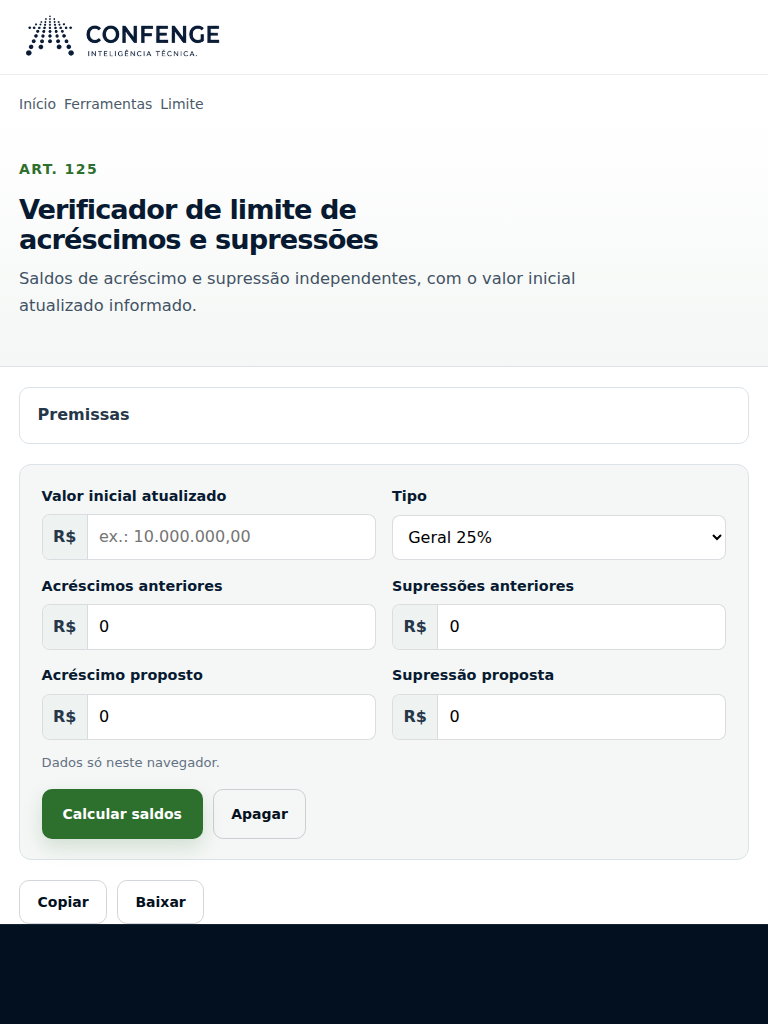
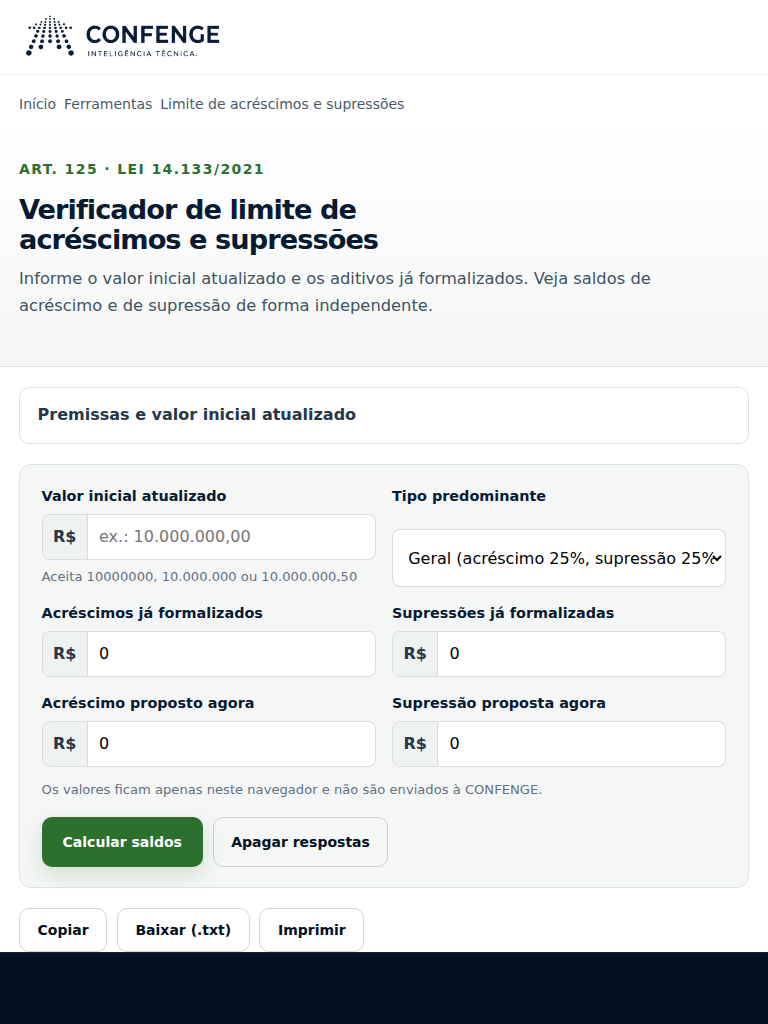
docs(uiux): refresh acceptance deliverables and post-regen pilot evidence
Update CHANGED-FILES, TEST-RESULTS, copy-lint report, and E2E/axe evidence
after full main audit (em-dash zero, interaction_type rebuild, skeptic E2E).

diff --git a/docs/uiux-tools-remediation/CHANGED-FILES.md b/docs/uiux-tools-remediation/CHANGED-FILES.md
@@ -1,0 +1,145 @@
+# Arquivos alterados (remediação UI/UX tools + editorial)
+
+Total: 141 paths (49d61778..HEAD / includes #46+#48)
+
+- `.well-known/build-info.json`
+- `.well-known/release-result.json`
+- `assets/js/tool-compute.cjs`
+- `assets/js/tool-compute.js`
+- `assets/js/tool-persist.cjs`
+- `assets/js/tool-persist.js`
+- `assets/js/tools-common.js`
+- `data/editorial/EDITORIAL-REGISTRY.json`
+- `data/editorial/pages/guia-checklist-aditivo.json`
+- `data/editorial/pages/guia-docs-reequilibrio.json`
+- `data/editorial/pages/guia-glosa.json`
+- `data/editorial/pages/guia-notificacao-atraso.json`
+- `data/editorial/pages/jur-sumula-260-art.json`
+- `data/editorial/pages/lei-art124-alteracao-obra.json`
+- `data/editorial/pages/lei-atraso-administracao.json`
+- `data/editorial/pages/lei-item-novo-desconto.json`
+- `data/editorial/pages/lei-limite-25-50.json`
+- `data/editorial/pages/lei-parcela-incontroversa.json`
+- `data/editorial/pages/lei-reequilibrio-reajuste.json`
+- `data/editorial/pages/lei-servico-sem-aditivo.json`
+- `data/pseo/registry.json`
+- `data/site/brand.json`
+- `docs/editorial/COPY-LINT-REPORT.json`
+- `docs/editorial/EDITORIAL-INVENTORY.json`
+- `docs/editorial/EDITORIAL-REGISTRY.json`
+- `docs/editorial/HUMAN-ACTION-NOW.md`
+- `docs/editorial/RELEASE-APPROVED-LAST.json`
+- `docs/editorial/TERMINAL-RESULT.json`
+- `docs/editorial/WAVE1-HUMAN-REVIEW-PACKET.json`
+- `docs/ops/REQUIRED-BRANCH-CHECKS.md`
+- `docs/ops/RESTORE-GREEN-MAIN-REPORT.md`
+- `docs/uiux-tools-remediation/AI-COPY-REWRITES.md`
+- `docs/uiux-tools-remediation/COMPONENT-MATRIX.md`
+- `docs/uiux-tools-remediation/FINDINGS.md`
+- `docs/uiux-tools-remediation/LIMITS-AND-FUTURE.md`
+- `docs/uiux-tools-remediation/README.md`
+- `docs/uiux-tools-remediation/TEST-RESULTS.md`
+- `docs/uiux-tools-remediation/evidence/axe-report.json`
+- `docs/uiux-tools-remediation/evidence/e2e-report-skeptic-round.json`
+- `docs/uiux-tools-remediation/evidence/e2e-report.json`
+- `docs/uiux-tools-remediation/evidence/e2e-summary.txt`
+- `docs/uiux-tools-remediation/evidence/screenshots/after/aditivo-1024x768.png`
+- `docs/uiux-tools-remediation/evidence/screenshots/after/aditivo-1440x1000.png`
+- `docs/uiux-tools-remediation/evidence/screenshots/after/aditivo-320x568.png`
+- `docs/uiux-tools-remediation/evidence/screenshots/after/aditivo-360x800.png`
+- `docs/uiux-tools-remediation/evidence/screenshots/after/aditivo-390x844.png`
+- `docs/uiux-tools-remediation/evidence/screenshots/after/aditivo-768x1024.png`
+- `docs/uiux-tools-remediation/evidence/screenshots/after/aditivo-partial-1440.png`
+- `docs/uiux-tools-remediation/evidence/screenshots/after/hub-1024x768.png`
+- `docs/uiux-tools-remediation/evidence/screenshots/after/hub-1440x1000.png`
+- `docs/uiux-tools-remediation/evidence/screenshots/after/hub-320x568.png`
+- `docs/uiux-tools-remediation/evidence/screenshots/after/hub-360x800.png`
+- `docs/uiux-tools-remediation/evidence/screenshots/after/hub-390x844.png`
+- `docs/uiux-tools-remediation/evidence/screenshots/after/hub-768x1024.png`
+- `docs/uiux-tools-remediation/evidence/screenshots/after/limite-1024x768.png`
+- `docs/uiux-tools-remediation/evidence/screenshots/after/limite-1440x1000.png`
+- `docs/uiux-tools-remediation/evidence/screenshots/after/limite-320x568.png`
+- `docs/uiux-tools-remediation/evidence/screenshots/after/limite-360x800.png`
+- `docs/uiux-tools-remediation/evidence/screenshots/after/limite-390x844.png`
+- `docs/uiux-tools-remediation/evidence/screenshots/after/limite-768x1024.png`
+- `docs/uiux-tools-remediation/evidence/screenshots/after/limite-result-1440.png`
+- `docs/uiux-tools-remediation/evidence/screenshots/after/matriz-1024x768.png`
+- `docs/uiux-tools-remediation/evidence/screenshots/after/matriz-1440x1000.png`
+- `docs/uiux-tools-remediation/evidence/screenshots/after/matriz-320x568.png`
+- `docs/uiux-tools-remediation/evidence/screenshots/after/matriz-360x800.png`
+- `docs/uiux-tools-remediation/evidence/screenshots/after/matriz-390x844.png`
+- `docs/uiux-tools-remediation/evidence/screenshots/after/matriz-768x1024.png`
+- `docs/uiux-tools-remediation/evidence/screenshots/after/matriz-result-1440.png`
+- `docs/uiux-tools-remediation/evidence/screenshots/after/reeq-result-1440.png`
+- `docs/uiux-tools-remediation/evidence/screenshots/after/reequilibrio-1024x768.png`
+- `docs/uiux-tools-remediation/evidence/screenshots/after/reequilibrio-1440x1000.png`
+- `docs/uiux-tools-remediation/evidence/screenshots/after/reequilibrio-320x568.png`
+- `docs/uiux-tools-remediation/evidence/screenshots/after/reequilibrio-360x800.png`
+- `docs/uiux-tools-remediation/evidence/screenshots/after/reequilibrio-390x844.png`
+- `docs/uiux-tools-remediation/evidence/screenshots/after/reequilibrio-768x1024.png`
+- `docs/uiux-tools-remediation/evidence/screenshots/before/README.md`
+- `ferramentas/checklist-reequilibrio/index.html`
+- `ferramentas/index.html`
+- `ferramentas/limite-acrescimos-supressoes/index.html`
+- `ferramentas/matriz-atraso-obra/index.html`
+- `guias-contratos-obras/checklist-pedido-aditivo/index.html`
+- `guias-contratos-obras/contestar-glosa-medicao/index.html`
+- `guias-contratos-obras/documentos-pedido-reequilibrio/index.html`
+- `guias-contratos-obras/index.html`
+- `guias-contratos-obras/responder-notificacao-atraso/index.html`
+- `inteligencia/cenarios/aditivos-e-risco-de-margem/index.html`
+- `inteligencia/cenarios/inconsistencia-orcamento-edital/index.html`
+- `inteligencia/cenarios/index.html`
+- `inteligencia/cenarios/medicao-glosa-contratos-recorrentes/index.html`
+- `inteligencia/cenarios/reequilibrio-e-dispersao-de-precos/index.html`
+- `inteligencia/cenarios/referencia-sinapi-sicro-margem/index.html`
+- `inteligencia/concorrencia/index.html`
+- `inteligencia/concorrencia/manutencao-predial-engenharia-rs/index.html`
+- `inteligencia/index.html`
+- `inteligencia/mercados/edificacoes-publicas-mg/index.html`
+- `inteligencia/mercados/edificacoes-publicas-rs/index.html`
+- `inteligencia/mercados/index.html`
+- `inteligencia/mercados/pavimentacao-infraestrutura-viaria-pi/index.html`
+- `inteligencia/mercados/pavimentacao-infraestrutura-viaria-sc/index.html`
+- `inteligencia/orgaos/index.html`
+- `inteligencia/orgaos/mrs-prefeitura-municipal-de-caxias-do-sul-rs/engenharia/index.html`
+- `inteligencia/precos/edificacoes-publicas-mg/index.html`
+- `inteligencia/precos/edificacoes-publicas-rs/index.html`
+- `inteligencia/precos/index.html`
+- `inteligencia/precos/manutencao-predial-engenharia-rs/index.html`
+- `inteligencia/precos/pavimentacao-infraestrutura-viaria-pi/index.html`
+- `inteligencia/precos/pavimentacao-infraestrutura-viaria-sc/index.html`
+- `jurisprudencia-contratos-obras/index.html`
+- `jurisprudencia-contratos-obras/tcu-sumula-260-art-obras/index.html`
+- `lei-14133-obras/art-124-alteracao-contratual-obra/index.html`
+- `lei-14133-obras/atraso-imputavel-administracao/index.html`
+- `lei-14133-obras/index.html`
+- `lei-14133-obras/limite-25-50-aditivo-obra/index.html`
+- `lei-14133-obras/parcela-incontroversa-medicao-pagamento/index.html`
+- `lei-14133-obras/preco-item-novo-desconto-proposta/index.html`
+- `lei-14133-obras/reequilibrio-reajuste-repactuacao/index.html`
+- `lei-14133-obras/servico-executado-sem-termo-aditivo/index.html`
+- `package.json`
+- `radar/edificacoes-publicas-pr/index.html`
+- `radar/edificacoes-publicas-rs/index.html`
+- `radar/edificacoes-publicas-sc/index.html`
+- `radar/index.html`
+- `radar/pavimentacao-infraestrutura-viaria-pr/index.html`
+- `radar/pavimentacao-infraestrutura-viaria-rs/index.html`
+- `radar/pavimentacao-infraestrutura-viaria-sc/index.html`
+- `radar/saneamento-hidraulica-sc/index.html`
+- `scripts/editorial/checklist_ui.py`
+- `scripts/editorial/render.py`
+- `scripts/editorial/tests/test_markdown_checklist.py`
+- `scripts/site/lint_editorial_copy.py`
+- `scripts/site/test_ops_docs_honesty.py`
+- `scripts/site/test_tool_compute.mjs`
+- `scripts/site/test_tools_structure.mjs`
+- `scripts/site/verify_tools_uiux_e2e.mjs`
+- `seo/PUBLIC-ARTIFACT-MANIFEST.json`
+- `seo/editorial-build-report.json`
+- `seo/pseo-build-report.json`
+- `seo/pseo-editorial-report.json`
+- `seo/pseo-editorial-report.md`
+- `seo/pseo-site-build-report.json`
+- `styles-tools.css`

diff --git a/docs/uiux-tools-remediation/TEST-RESULTS.md b/docs/uiux-tools-remediation/TEST-RESULTS.md
@@ -1,26 +1,45 @@
-# Resultados de testes
+# Resultados de testes (main @ 902f1884)
 
 ## Unit / structure / lint (shipped entry points)
 ```
-npm run test:tool-compute  → ALL tool compute unit tests passed
-npm run test:tools         → ALL tools structure checks passed  
-npm run test:tool-events   → ALL tool/organic activation checks passed
-npm run lint:editorial-copy → em_dash hits: 0 / PASS
-pytest scripts/editorial/tests/test_markdown_checklist.py → 5 passed
+python3 scripts/site/lint_editorial_copy.py  → em_dash hits: 0 / PASS
+node scripts/site/test_tool_compute.mjs      → ALL passed
+  (BRL, 25/50, independent balances, reequilibrio blockers+N/A,
+   matrix concurrent/no-evidence, pack/unpack/TTL/schema, report text,
+   aditivo readiness)
+node scripts/site/test_tools_structure.mjs   → ALL passed
+node scripts/site/test_tool_events.mjs       → ALL passed
+```
+
+## Editorial
+```
+interaction_type explicit on all 12 data/editorial/pages/*.json
+resolve_interaction_type matches; guia-docs-reequilibrio = operational_guide
+editorial:build ok; checklist-aditivo retains tri-state after regen
 ```
 
 ## E2E + a11y (puppeteer-core + axe + Chrome)
-Script: `scripts/site/verify_tools_uiux_e2e.mjs` → `npm run test:tools-uiux-e2e`
-
-Viewports: 1440, 1024, 768, 390, 360, 320  
+```
+npm run test:tools-uiux-e2e  /  node scripts/site/verify_tools_uiux_e2e.mjs
+Viewports: 1440, 1024, 768, 390, 360, 320
 Pilots: hub, limite, reequilibrio, matriz, aditivo
 
-```
 failed=0
 overflows=0
 axe critical=0 serious=0
-flows: limite panels+wording, reeq blockers, matriz hypothesis, aditivo tri-state
-keyboard: reach form controls
+flows:
+  - limite panels + wording + invalid BRL kept + no silent zero
+  - limite persist→reload + erase storage/UI + copy/download + print
+  - reeq blockers + fieldsets + persist
+  - matriz hypothesis + dur/conc/obs fields + full event result + persist
+  - aditivo tri-state + result
+  - keyboard reach form
 ```
 
-Evidence: `docs/uiux-tools-remediation/evidence/`
+## Evidence paths
+- `docs/uiux-tools-remediation/evidence/e2e-report.json`
+- `docs/uiux-tools-remediation/evidence/axe-report.json`
+- `docs/uiux-tools-remediation/evidence/e2e-report-skeptic-round.json`
+- `docs/uiux-tools-remediation/evidence/screenshots/after/` (34+)
+- `docs/uiux-tools-remediation/evidence/screenshots/before/README.md` (honest unavailability)
+- `docs/editorial/COPY-LINT-REPORT.json`
